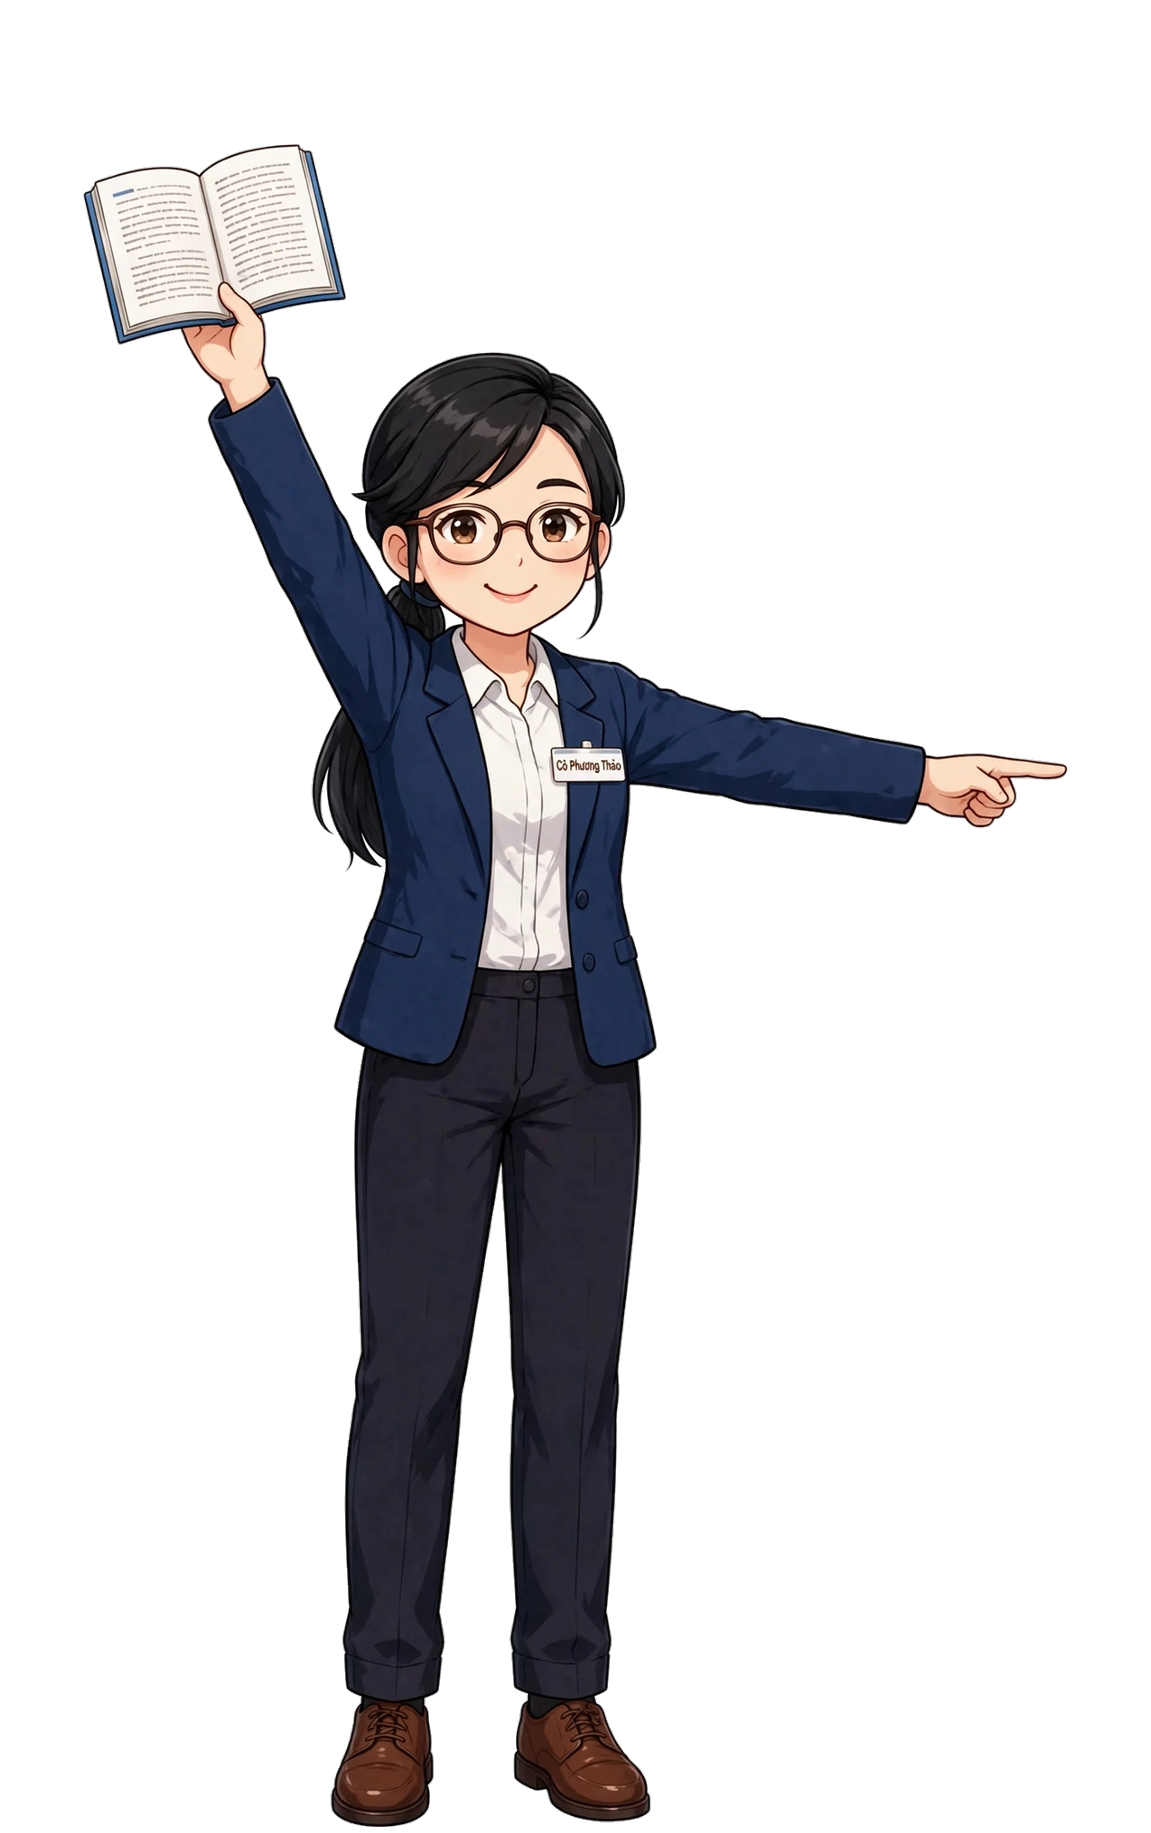
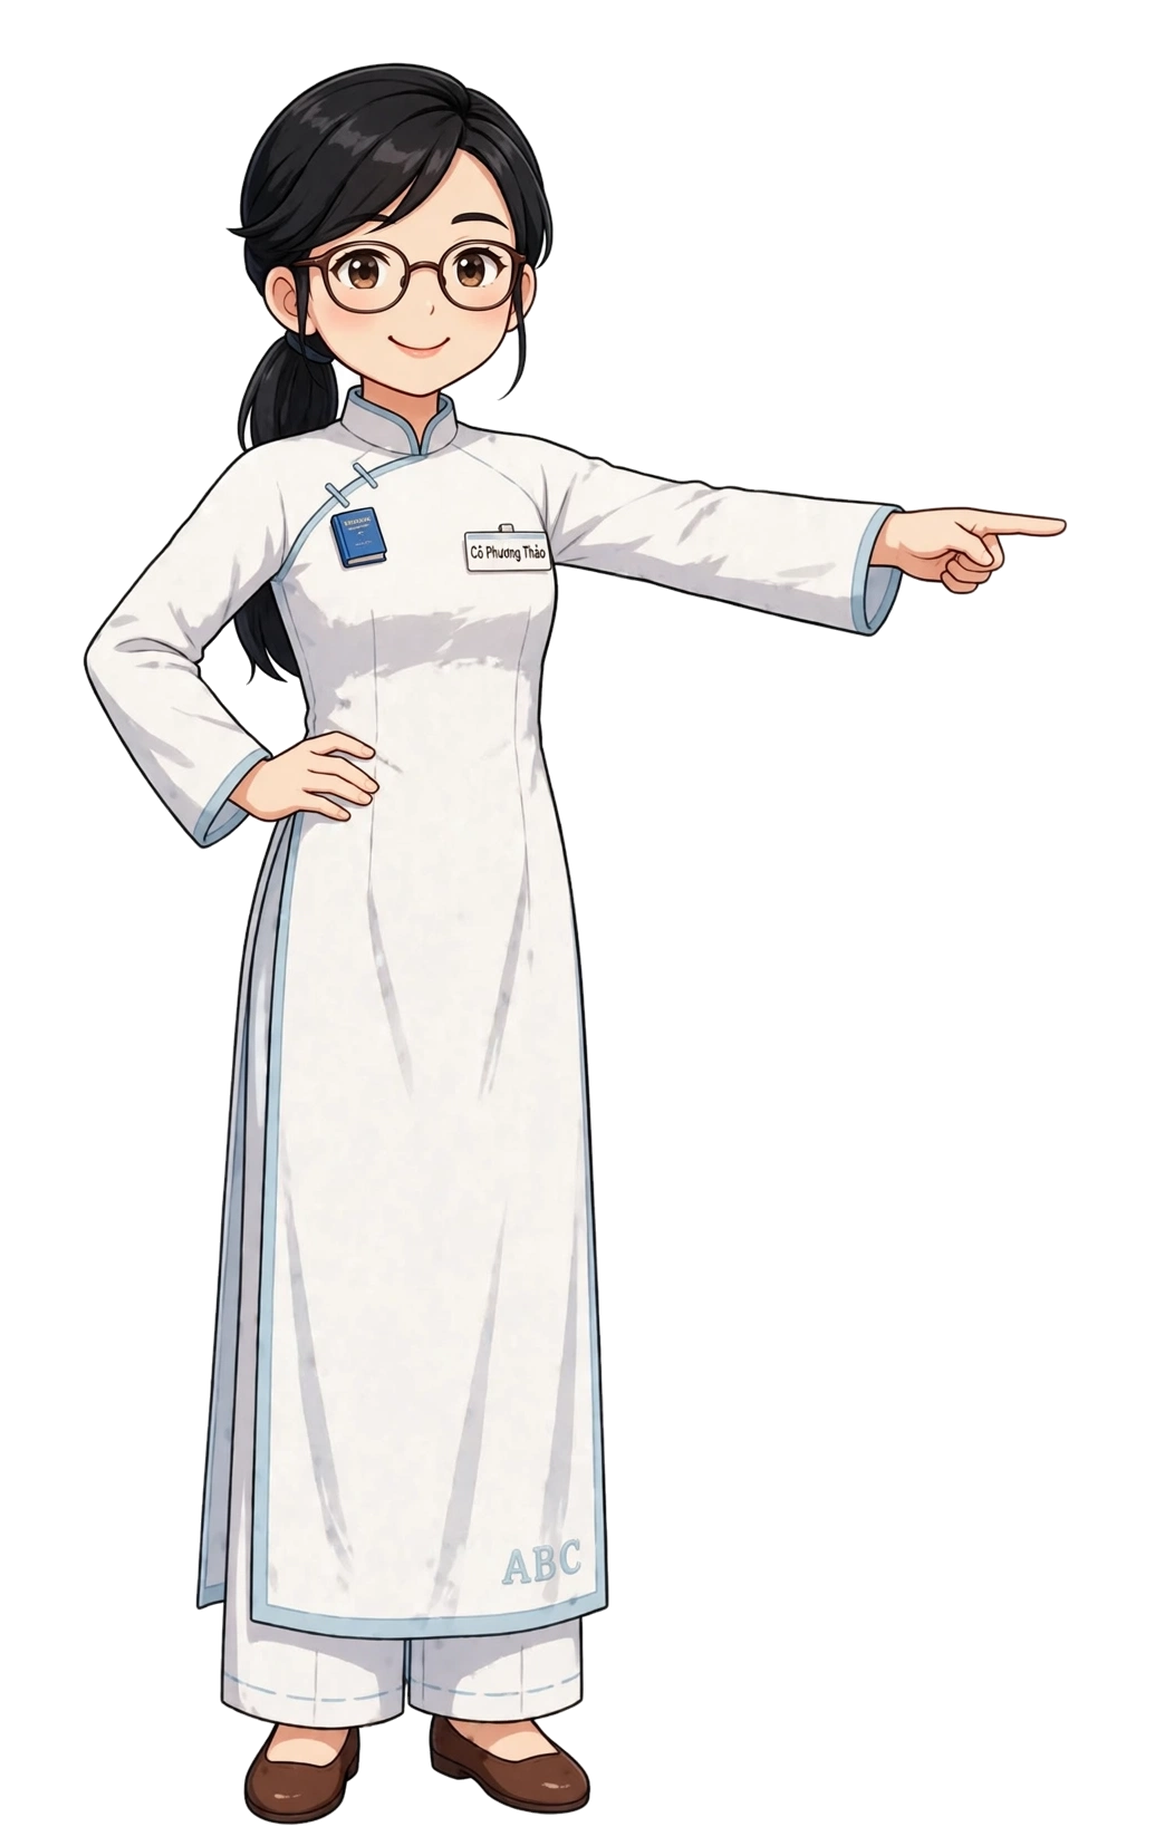
Lop hoc chu (nv2-lop-hoc-v18): LH-GV2 ve lai 10 giao vien — nu, ao dai trang, tu the 1 tay chi + 1 tay ngang eo
- Ve lai ca 10 anh (ghi de cung ten file, khong doi map mon ->
  anh, khong doi logic doi giao vien, khong doi voice):
  tu the moi 1 tay chi bang + 1 tay ngang eo (lich su), khong
  giơ tay cao, khong cam do gio len. Tat ca la co (nu).
- 9 co mon hoc mac ao dai trang, phan biet bang hoa tiet/vien
  ao dai + kieu toc + kinh/cai ao nho theo mon: Mai Lan hoa
  dao/truc, Thu Hang hinh hoc xam-xanh + cai ao sao, Dieu Anh la
  xanh, Phuong Thao vien xanh nhat + 'ABC' + cai ao sach, Thanh
  Huyen vien co truyen mau dong + tram vang, Quynh Chi duong
  dong muc + cai ao dia cau, Hong Nhung hoa hong nhat (ao dai
  doi tu hong sang trang), Ngoc Tram dung cu bep + cai ao mu bep,
  Bao Chau confetti/ngoi sao nhieu mau + kep toc mau.
- Co Ngan giu ao dai do + khan trang + toc bob + kinh (giao vien
  chinh), chi doi tu the moi, BO CO.
- Doi ten 4 giao vien cu sang ten nu moi trong people.js
  (Toan: Co Thu Hang; Lich su: Co Thanh Huyen; Dia li: Co Quynh
  Chi; Do vui: Co Bao Chau). 5 co cu giu ten.
- Sua loi pocket trang kin giua tay chong eo va than (flood-fill
  tu bien khong toi duoc): xoa o 6 anh (toan 2818px, khoa-hoc
  12022px, tieng-anh 6873px, lich-su 2602px, dia-ly 4472px,
  doi-song 2587px); 3 anh nhom C da xu ly truoc; kiem lai bang
  code: ca 10 anh khong con vung trang tinh kin nao.
- Kiem chung: node --check OK; demo doi cheDo sang du 9 mon
  deu dung co moi (anh load du 1151px), tong-hop/olympic/la ->
  Co Ngan; 0 console error. Anh ghep 10 co trong game:
[…]

Changed region(s): [[0.0608, 0.0311, 0.9427, 1.0], [0.1216, 0.2799, 0.152, 0.311]]

diff --git a/Games/lop-hoc-chu/js/people.js b/Games/lop-hoc-chu/js/people.js
@@ -37,21 +37,22 @@ function hash(s) { let h = 0; s = String(s || ''); for (let i = 0; i < s.length;
 function esc(s) { return String(s || '').replace(/[&<>"']/g, ch => ({ '&': '&amp;', '<': '&lt;', '>': '&gt;', '"': '&quot;', "'": '&#39;' }[ch])); }
 
 const TEACHER_IMG = 'img/co-ngan.png';
-/* Giáo viên theo môn học (cheDo): 9 giáo viên, mỗi môn 1 người, cùng
-   phong cách vẽ 2D anime với Cô Ngân (người lớn, đứng ở bảng, dáng
-   giơ tay/chỉ bảng, thẻ tên vẽ trong ảnh). tong-hop / olympic / lạ
-   → Cô Ngân (áo dài đỏ) mặc định. Giọng đọc KHÔNG đổi: mọi giáo
-   viên vẫn dùng GV02LemLinh — chỉ đổi ảnh + tên. */
+/* Giáo viên theo môn học (cheDo): 9 cô giáo (LH-GV2: tất cả nữ, áo
+   dài trắng, tư thế 1 tay chỉ bảng + 1 tay ngang eo), mỗi môn 1
+   người, cùng phong cách vẽ 2D anime với Cô Ngân (người lớn, đứng
+   ở bảng, thẻ tên vẽ trong ảnh). tong-hop / olympic / lạ → Cô Ngân
+   (áo dài đỏ) mặc định. Giọng đọc KHÔNG đổi: mọi giáo viên vẫn
+   dùng GV02LemLinh — chỉ đổi ảnh + tên. */
 const TEACHERS = {
   'tieng-viet': { name: 'Cô Mai Lan', img: 'img/gv-tieng-viet.png' },
-  'toan': { name: 'Thầy Minh Quân', img: 'img/gv-toan.png' },
+  'toan': { name: 'Cô Thu Hằng', img: 'img/gv-toan.png' },
   'khoa-hoc': { name: 'Cô Diệu Anh', img: 'img/gv-khoa-hoc.png' },
   'tieng-anh': { name: 'Cô Phương Thảo', img: 'img/gv-tieng-anh.png' },
-  'lich-su': { name: 'Thầy Văn Hiếu', img: 'img/gv-lich-su.png' },
-  'dia-ly': { name: 'Thầy Quốc Bảo', img: 'img/gv-dia-ly.png' },
+  'lich-su': { name: 'Cô Thanh Huyền', img: 'img/gv-lich-su.png' },
+  'dia-ly': { name: 'Cô Quỳnh Chi', img: 'img/gv-dia-ly.png' },
   'doi-song': { name: 'Cô Hồng Nhung', img: 'img/gv-doi-song.png' },
   'do-an': { name: 'Cô Ngọc Trâm', img: 'img/gv-do-an.png' },
-  'do-vui': { name: 'Thầy Bảo Long', img: 'img/gv-do-vui.png' },
+  'do-vui': { name: 'Cô Bảo Châu', img: 'img/gv-do-vui.png' },
 };
 const TEACHER_DEFAULT = { name: 'Cô Ngân', img: TEACHER_IMG };
 /* Vị trí + cỡ giáo viên từ config (key viTriGiaoVien): {x, y, w} —
